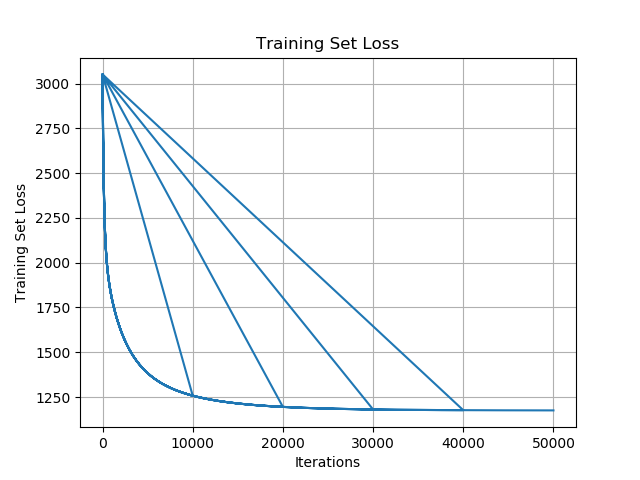
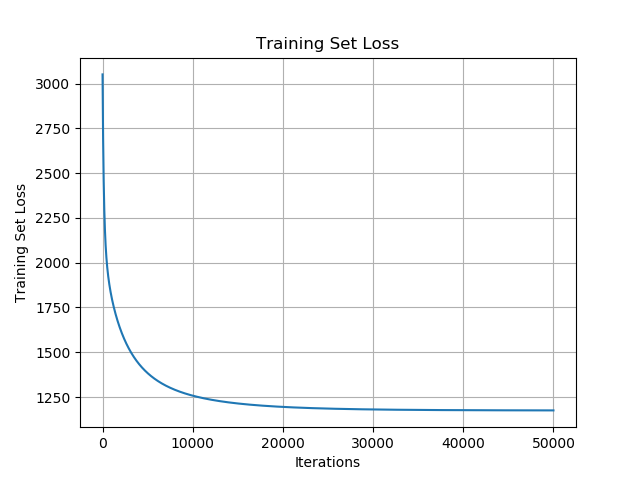
Re-generate data for 50000 iterations. CHANGED: using numpy.dot

diff --git a/Assignment1/Code/LogisticRegressionModel.py b/Assignment1/Code/LogisticRegressionModel.py
@@ -1,11 +1,15 @@
+from collections import OrderedDict
 import math
+import numpy as np
 
 
 class LogisticRegressionModel(object):
     """A logistic regression spam filter"""
 
-    def __init__(self, threshold=0.5):
+    def __init__(self, threshold=0.5, cnt_to_log=[]):
         self.threshold = threshold
+        self.weights_logs = OrderedDict()
+        self.cnt_to_log = cnt_to_log
         
 
     def fit(self, xTrain, yTrain, iterations, step=0.01):
@@ -15,15 +19,12 @@ class LogisticRegressionModel(object):
         print("Fitting training dataset with {} iteration".format(iterations))
         print("Initial: {}".format(self.weights))
         cnt = 0
+        n = len(xTrain)
         while cnt < iterations:
-            yTrainPredicted = self.sigmoid(xTrain)
-            for i in range(len(self.weights)):
-                partial_loss = 0.0
-                n = 0
-                for x, yhat_j, y_j in zip(xTrain, yTrainPredicted, yTrain):
-                    partial_loss += (yhat_j - y_j) * x[i]
-                    n += 1
-
+            yTrainPredicted = self.calculate_yhats(xTrain)
+            for i, xs in enumerate(zip(*xTrain)):
+                ys_delta = np.array(yTrainPredicted) - np.array(yTrain)
+                partial_loss = np.dot(ys_delta, xs)
                 partial_derv_loss = partial_loss / n
                 self.weights[i] = self.weights[i] - step * partial_derv_loss
             
@@ -34,6 +35,8 @@ class LogisticRegressionModel(object):
                 training_loss = self.loss_calculator(yTrainPredicted, yTrain)
                 self.training_set_loss_vs_iterations.append((cnt, training_loss))
 
+
+            
             cnt += 1
 
     def loss_calculator(self, yPredicted, ys):
@@ -44,10 +47,10 @@ class LogisticRegressionModel(object):
 
     def loss(self, xTest, yTest):
 
-        yTestPredicted = self.sigmoid(xTest)
+        yTestPredicted = self.calculate_yhats(xTest)
         return self.loss_calculator(yTestPredicted, yTest)
 
-    def sigmoid(self, x):
+    def calculate_yhats(self, x):
 
         sigmoids = []
 
@@ -62,9 +65,9 @@ class LogisticRegressionModel(object):
 
     def predict(self, x):
 
-        sigmoids = self.sigmoid(x)
+        yhats = self.calculate_yhats(x)
         predictions = []
-        for s in sigmoids:
+        for s in yhats:
             if s > self.threshold:
                 predictions.append(1)
             else:

diff --git a/Assignment1/Report/statictics.md b/Assignment1/Report/statictics.md
@@ -1,13 +1,13 @@
 * Statistics: 
           |    1     |    0     
 --------------------------------
-    1     |  (TP) 0  | (FN) 202 
-    0     |  (FP) 0  |(TN) 1192 
-Accuracy: 0.8550932568149211
-Precision: 0.0
-Recall: 0.0
-FPR: 0.0
-FNR: 1.0
+    1     | (TP) 80  | (FN) 122 
+    0     | (FP) 46  |(TN) 1146 
+Accuracy: 0.8794835007173601
+Precision: 0.6349206349206349
+Recall: 0.39603960396039606
+FPR: 0.03859060402684564
+FNR: 0.6039603960396039
 
-500 iterations
-Took: 31.284819841384888 sec.
+50000 iterations
+Took: 9151.538475036621 sec.
